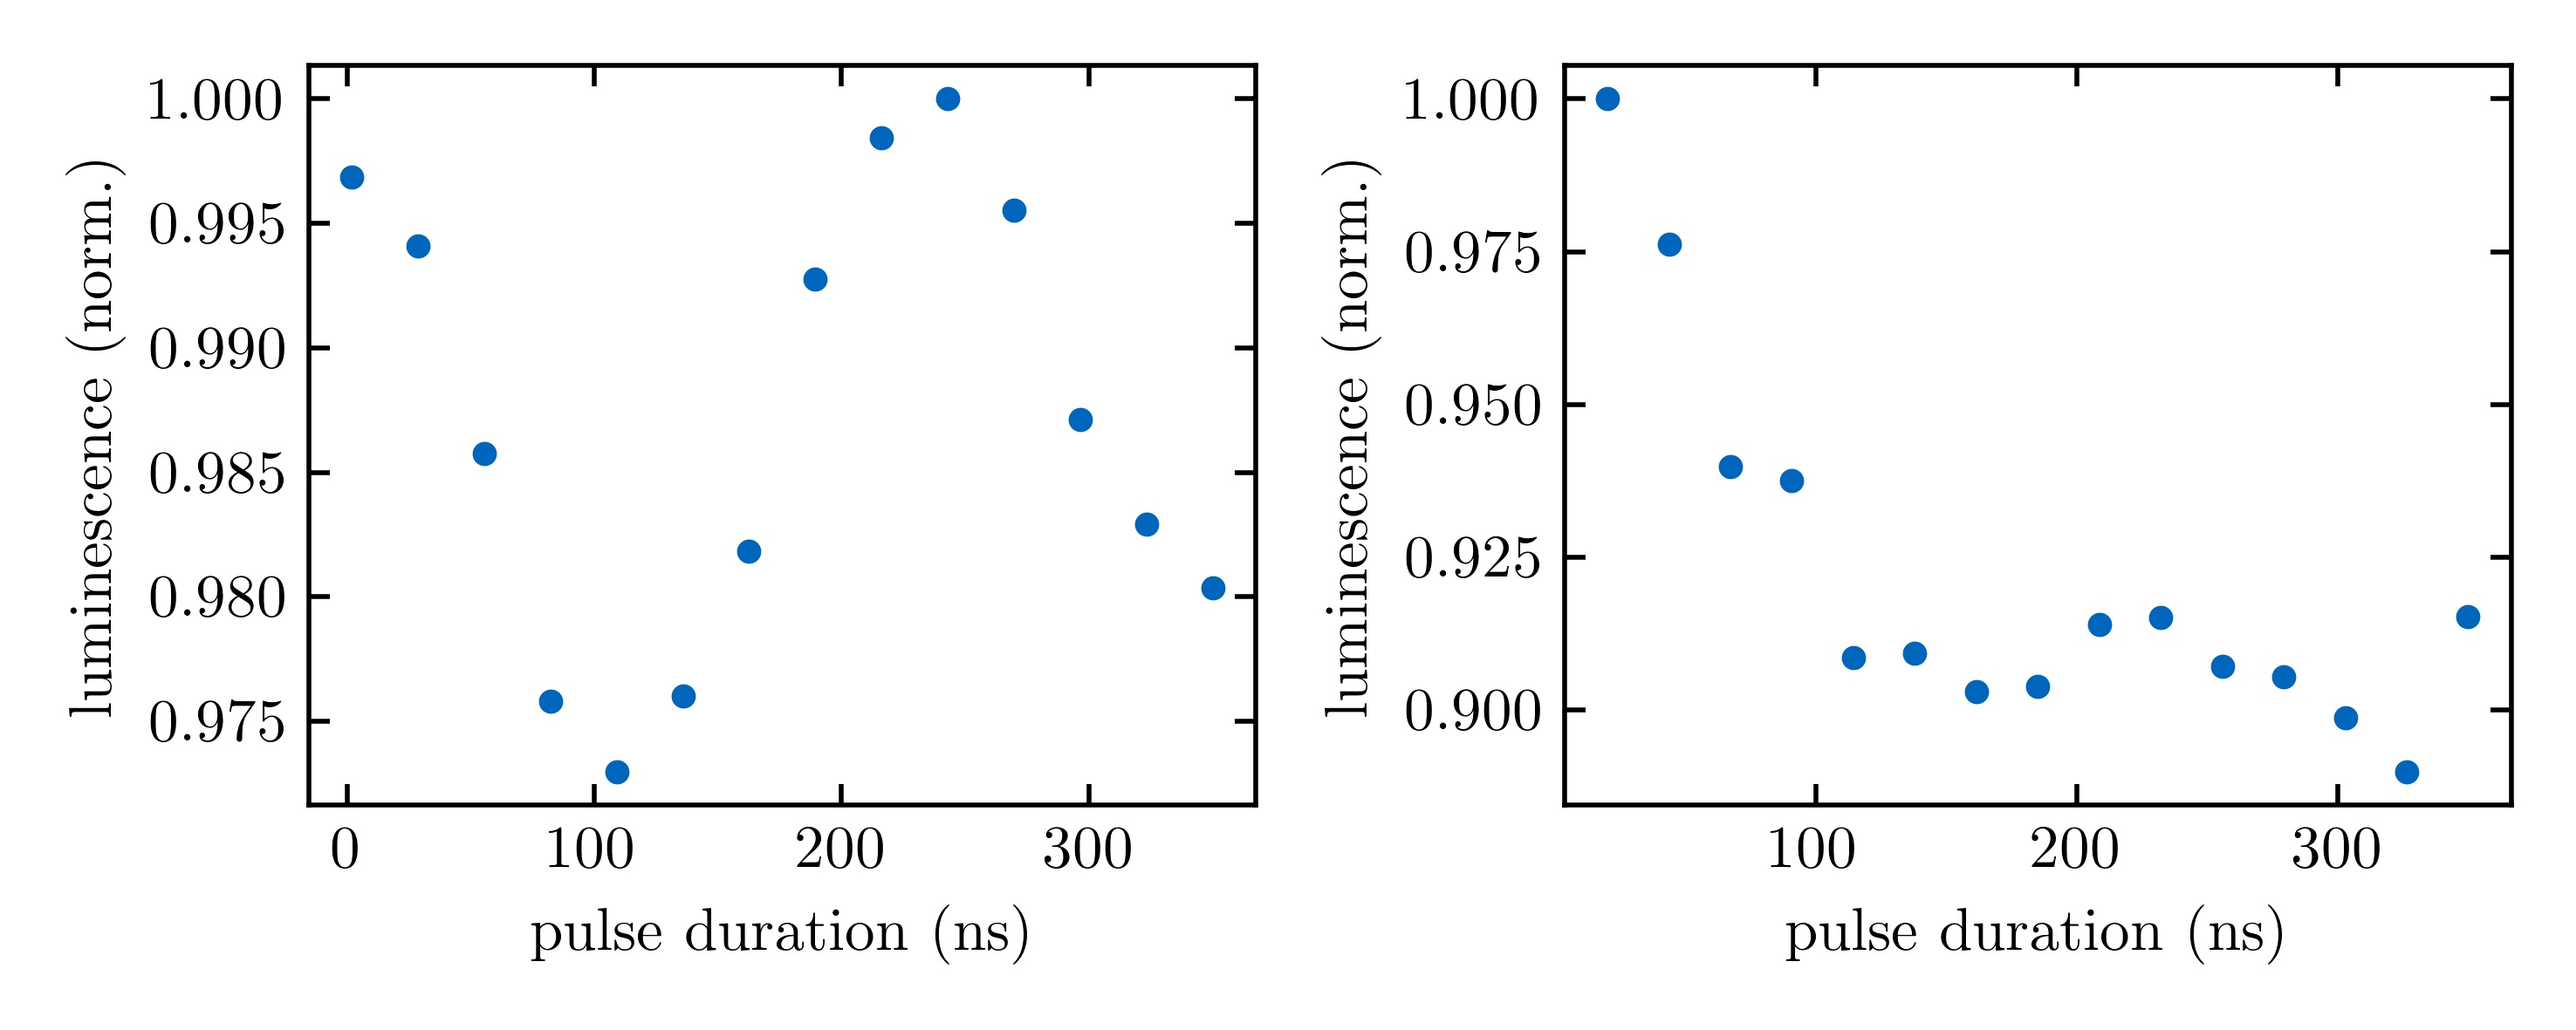
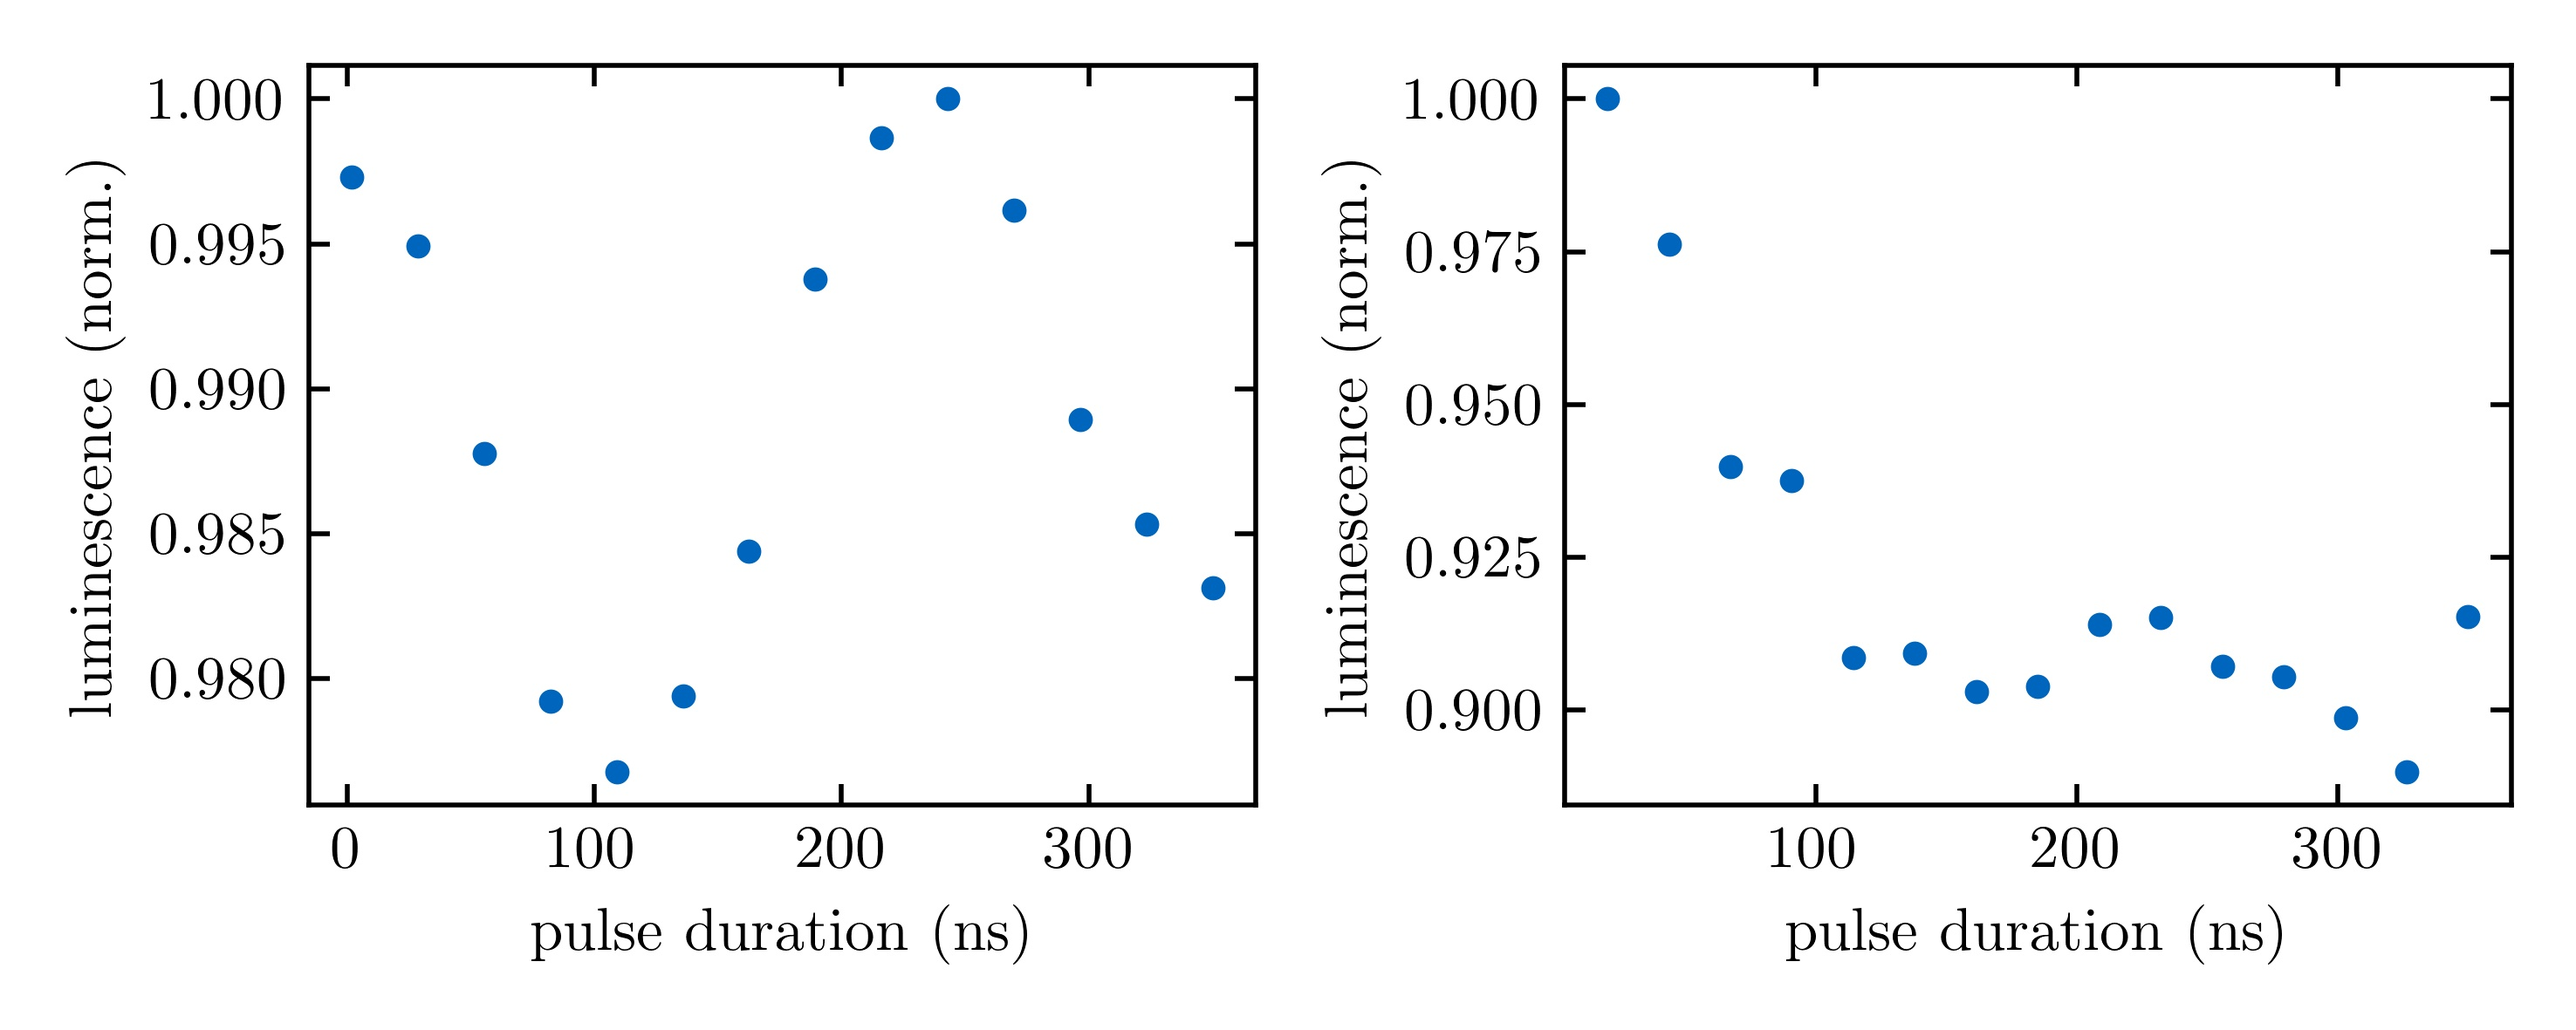
chapter 5 roi_vs_reference i.e. corrected vs uncorrected
- adjusted factor

diff --git a/images/chapter_5/roi_vs_reference_widefield.py b/images/chapter_5/roi_vs_reference_widefield.py
@@ -35,7 +35,7 @@ class RoiVsReferencePlotter:
 
     def __load_corrected_data(self):
         data = np.loadtxt(os.path.join(self.folder_corrected, 'result.txt'))
-        return data - 4e10  # to increase contrast to level of NV 577
+        return data - 3.8e10  # to increase contrast to level of NV 577
 
     def __load_uncorrected_data(self):
         filenames = os.listdir(self.folder_uncorrected)
